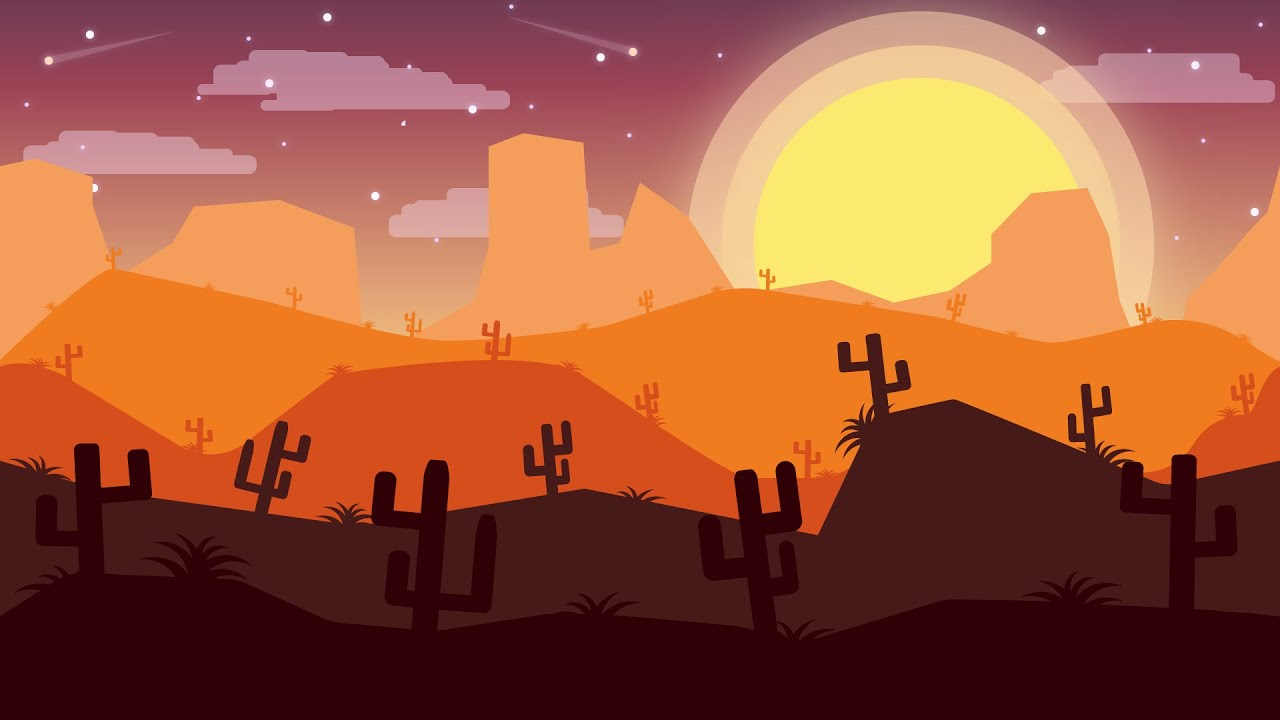
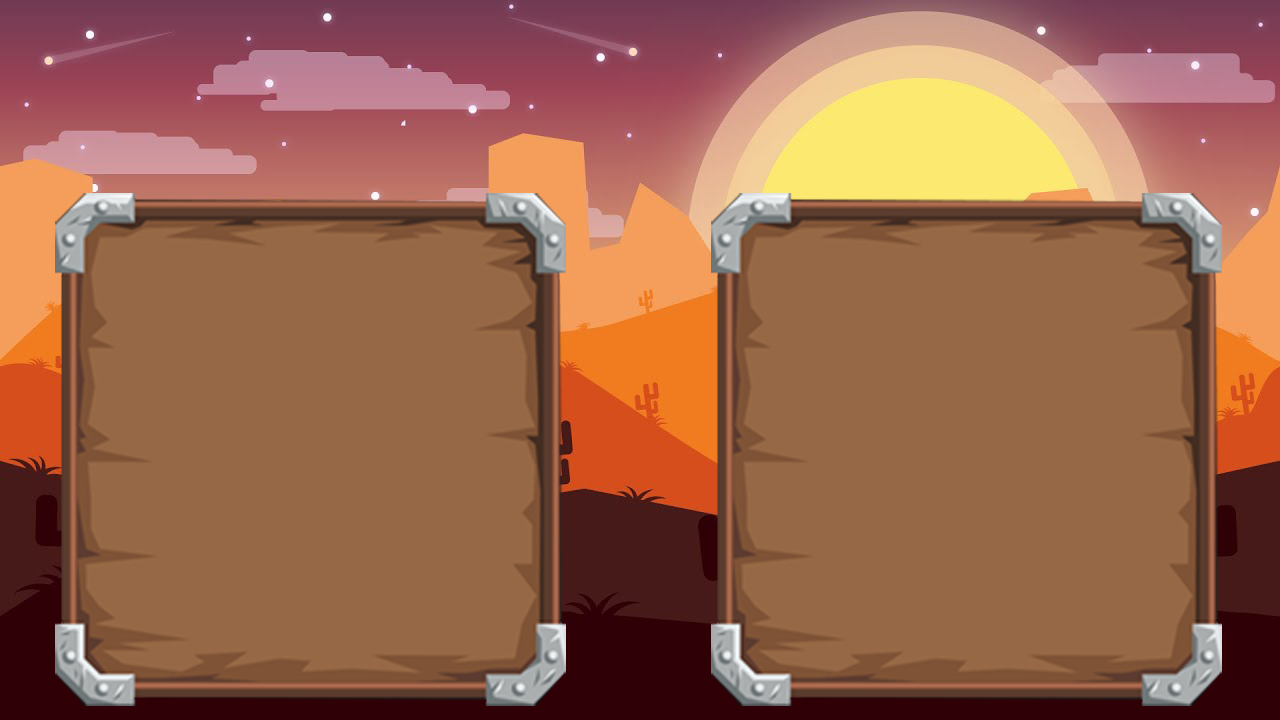
Test #2 Реализация кнопок

diff --git a/1.py b/1.py
@@ -1,4 +1,6 @@
 import logging
+import os
+import sys
 from time import sleep
 
 import pygame
@@ -15,8 +17,27 @@ MENU_INACTIVE_BTN_COLOR = pygame.Color('#8130F4')
 MENU_BTN_SOUND = pygame.mixer.Sound('sounds/menu_btn.wav')
 
 
+def load_image(name, colorkey=None):
+    fullname = os.path.join('images', name)
+    # если файл не существует, то выходим
+    if not os.path.isfile(fullname):
+        print(f"Файл с изображением '{fullname}' не найден")
+        sys.exit()
+    image = pygame.image.load(fullname)
+    if colorkey is not None:
+        image = image.convert()
+        if colorkey == -1:
+            colorkey = image.get_at((0, 0))
+        image.set_colorkey(colorkey)
+    else:
+        image = image.convert_alpha()
+    return image
+
+
 class Button:
-    """ Класс кнопок для создания непосредственно самих конпок """
+    """
+    Класс кнопок для создания непосредственно самих конпок
+    """
 
     def __init__(self, width, height):
         self.width = width
@@ -24,26 +45,30 @@ class Button:
         self.inactive_color = MENU_INACTIVE_BTN_COLOR
         self.active_color = MENU_ACTIVE_BTN_COLOR
 
-    def draw(self, x, y, message, action=None, font_size=50):
+    def draw(self, x, y, message, button_image, action=None, font_size=50):
         mouse_pos_x, mouse_pos_y = pygame.mouse.get_pos()
         clicked = pygame.mouse.get_pressed()
         if (x < mouse_pos_x < x + self.width) and (y < mouse_pos_y < y + self.height):
-            pygame.draw.rect(screen, self.active_color, (x, y, self.width, self.height))
+            screen.blit(pygame.transform.scale(load_image(button_image), (self.width, self.height)),
+                        (x, y - 5))
+            font = pygame.font.Font(None, font_size)
+            text = font.render(message, True, 'white')
+            screen.blit(text, (
+            x + ((self.width - text.get_width()) // 2), y + ((self.height - text.get_height()) // 2) - 5))
             if clicked[0]:
                 pygame.mixer.Sound.play(MENU_BTN_SOUND)
                 pygame.time.delay(300)
                 if action is not None:
                     action()
         else:
-            pygame.draw.rect(screen, self.inactive_color, (x, y, self.width, self.height))
-        # вот это надо буедт попраавить ибо не отрисовывает в нужном месте текст
-        font = pygame.font.Font(None, font_size)
-        text = font.render(message, True, 'white')
+            screen.blit(pygame.transform.scale(load_image(button_image), (self.width, self.height)), (x, y))
+            font = pygame.font.Font(None, font_size)
+            text = font.render(message, True, 'white')
+            screen.blit(text, (
+            x + ((self.width - text.get_width()) // 2), y + ((self.height - text.get_height()) // 2)))
 
-        screen.blit(text, (x + text.get_width() // 2 - 20, y + text.get_height() // 2))
 
-
-def show_menu(screen, clock):
+def show_menu(screen):
     """ Отрисовка самого меню """
     menu_background = pygame.image.load('images/background.jpg')
     show = True
@@ -55,15 +80,14 @@ def show_menu(screen, clock):
                 quit()
 
         screen.blit(menu_background, (0, 0))
-        start_btn.draw(300, 200, 'Start game', game_cycle)
+        start_btn.draw(430, 200, 'Start game', 'btn.png', game_cycle)
         pygame.display.update()
-        clock.tick(60)
 
 
 def start_menu():
     running = True
     clock = pygame.time.Clock()
-    show_menu(screen, clock)
+    show_menu(screen)
     while running:
         for event in pygame.event.get():
             if event.type == pygame.QUIT:
@@ -71,11 +95,29 @@ def start_menu():
         tick = clock.tick()
         pygame.display.flip()
     pygame.quit()
-# 1
+
 
 def game_cycle():
     """ Отрисовка самого меню """
     menu_background = pygame.image.load('images/background_2.jpg')
+    show = True
+    story_mode_btn = Button(460, 100)
+    pvp_btn = Button(460, 100)
+    while show:
+        for event in pygame.event.get():
+            if event.type == pygame.QUIT:
+                pygame.quit()
+                quit()
+
+        screen.blit(menu_background, (0, 0))
+        story_mode_btn.draw(80, 80, 'Story mode', 'btn.png', story_mode)
+        pvp_btn.draw(730, 80, 'PVP mode', 'btn.png', pvp_mode)
+        pygame.display.update()
+
+
+def story_mode():
+    """ Отрисовка самого меню """
+    menu_background = pygame.image.load('images/background_3.jpg')
     show = True
     while show:
         for event in pygame.event.get():
@@ -83,10 +125,19 @@ def game_cycle():
                 pygame.quit()
                 quit()
 
-            if event.type == pygame.KEYDOWN:
-                if event.key == pygame.K_ESCAPE:
-                    # logging.warning('game exit by keys')
-                    show = False
+        screen.blit(menu_background, (0, 0))
+        pygame.display.update()
+
+
+def pvp_mode():
+    """ Отрисовка самого меню """
+    menu_background = pygame.image.load('images/background_4.jpg')
+    show = True
+    while show:
+        for event in pygame.event.get():
+            if event.type == pygame.QUIT:
+                pygame.quit()
+                quit()
 
         screen.blit(menu_background, (0, 0))
         pygame.display.update()
